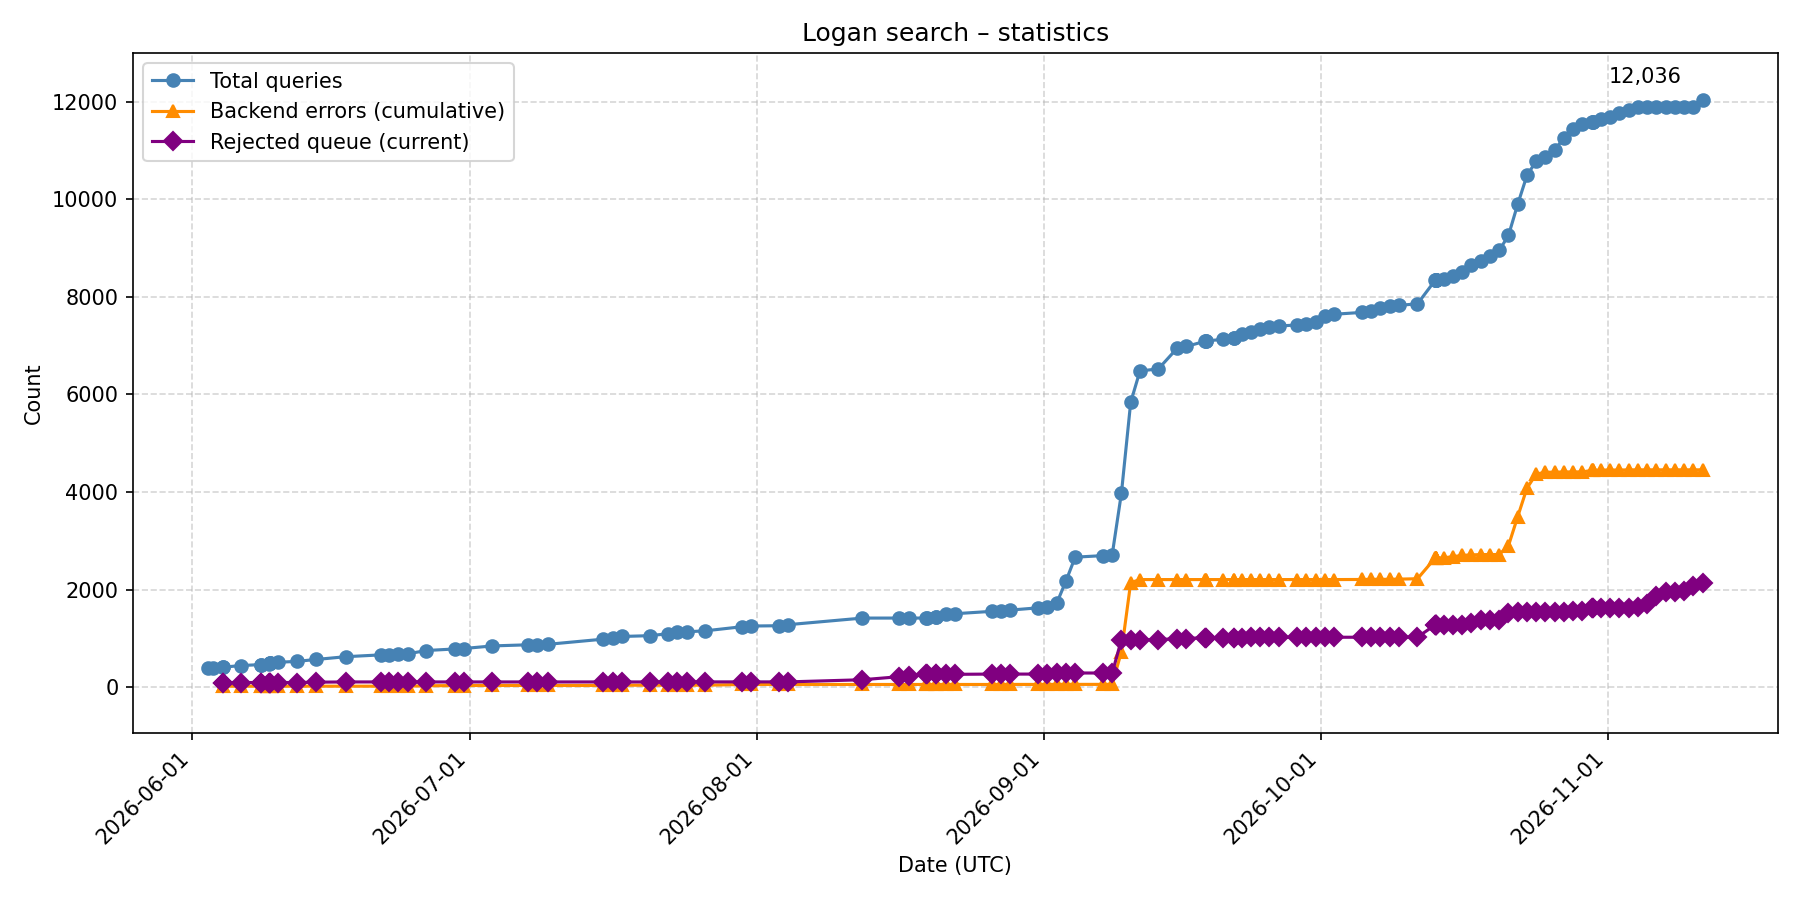
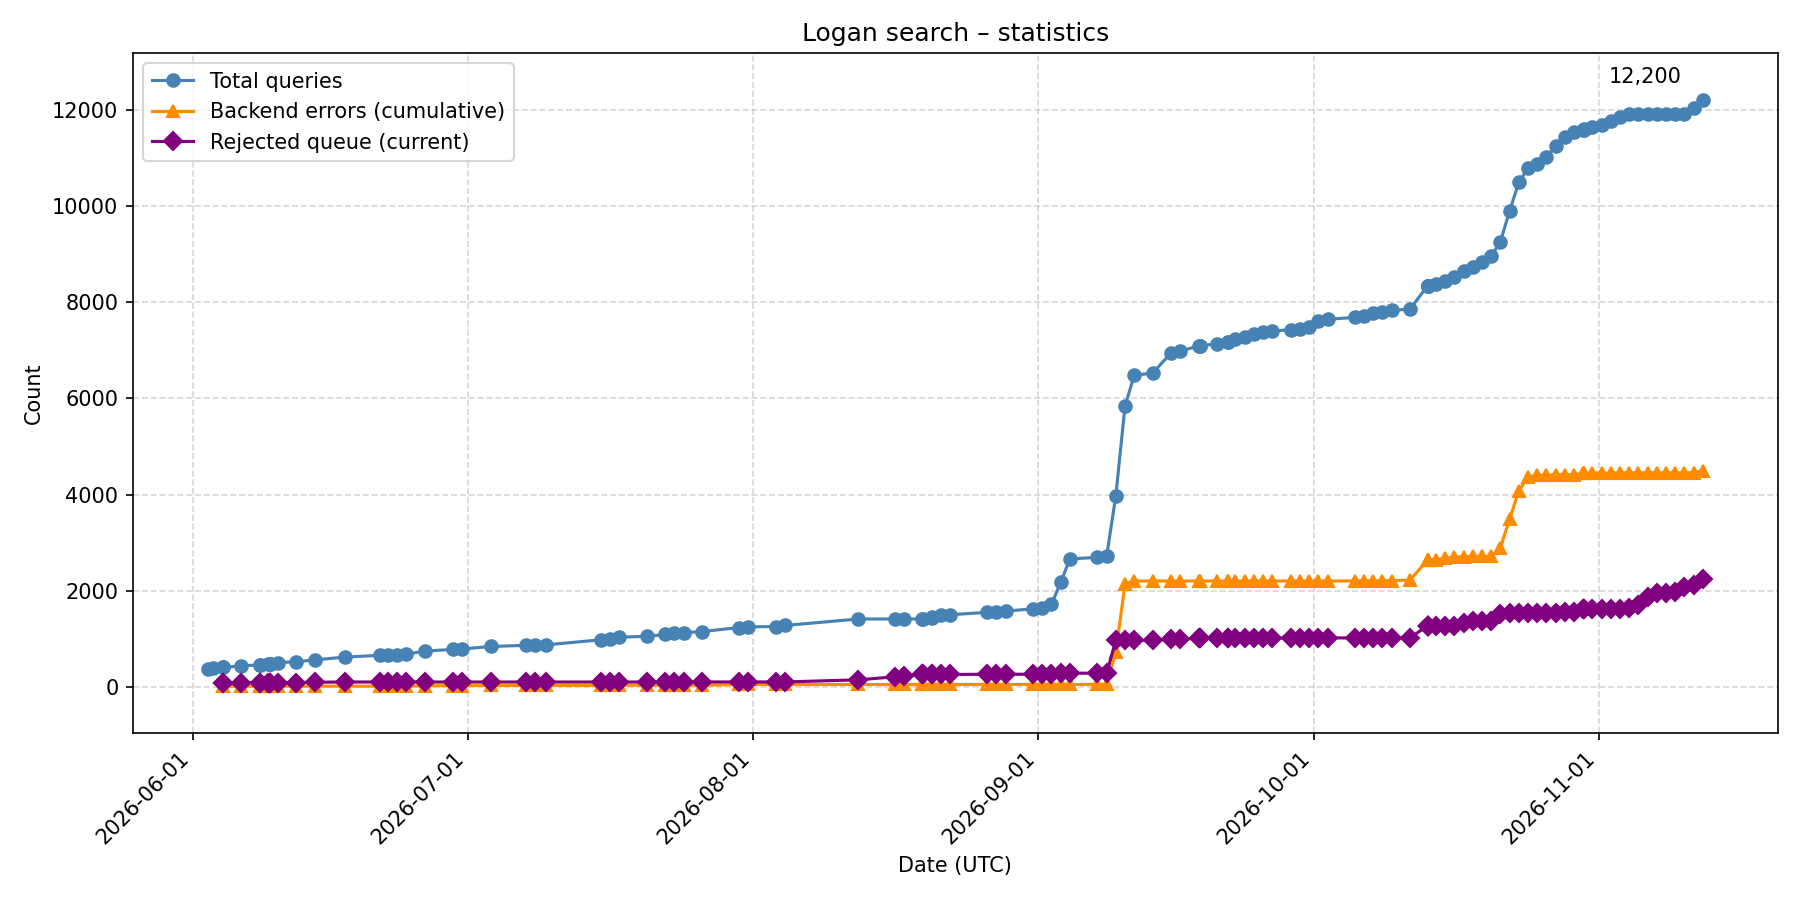
Update statistics 2026-11-12

diff --git a/README.md b/README.md
@@ -5,8 +5,8 @@ Usage statistics of [Logan Search](https://logan-search.org), updated once a day
 ## Yesterday
 
 <!-- daily-queries:start -->
-**Queries on 2026-11-10 (UTC): 128** on the backend (BRC Analytics history).
-The logan-search.org counter increased by 139 between 2026-11-10 06:00 and 2026-11-11 06:00 UTC.
+**Queries on 2026-11-11 (UTC): 156** on the backend (BRC Analytics history).
+The logan-search.org counter increased by 164 between 2026-11-11 06:00 and 2026-11-12 06:00 UTC.
 <!-- daily-queries:end -->
 
 ## Queries made on logan-search.org
